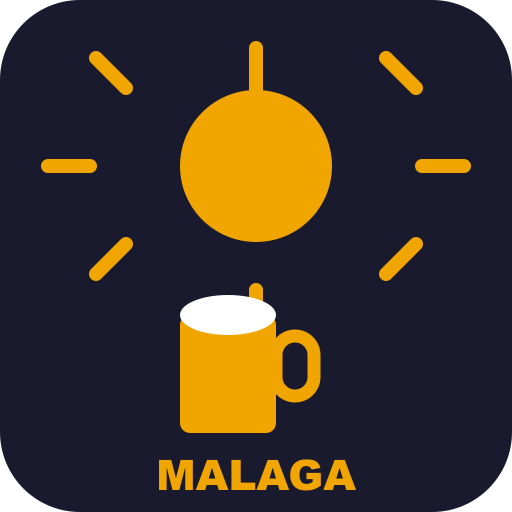
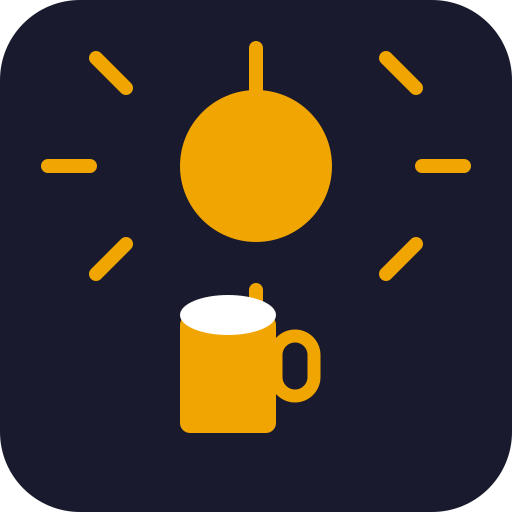
Poista teksti ikoneista ja bumppaa valimuistiversio

Changed region(s): [[0.3125, 0.875, 0.6875, 0.9688]]

diff --git a/sw.js b/sw.js
@@ -1,4 +1,4 @@
-const CACHE_NAME = 'malaga-2026-v6';
+const CACHE_NAME = 'malaga-2026-v7';
 const ASSETS = [
   './',
   './index.html',
